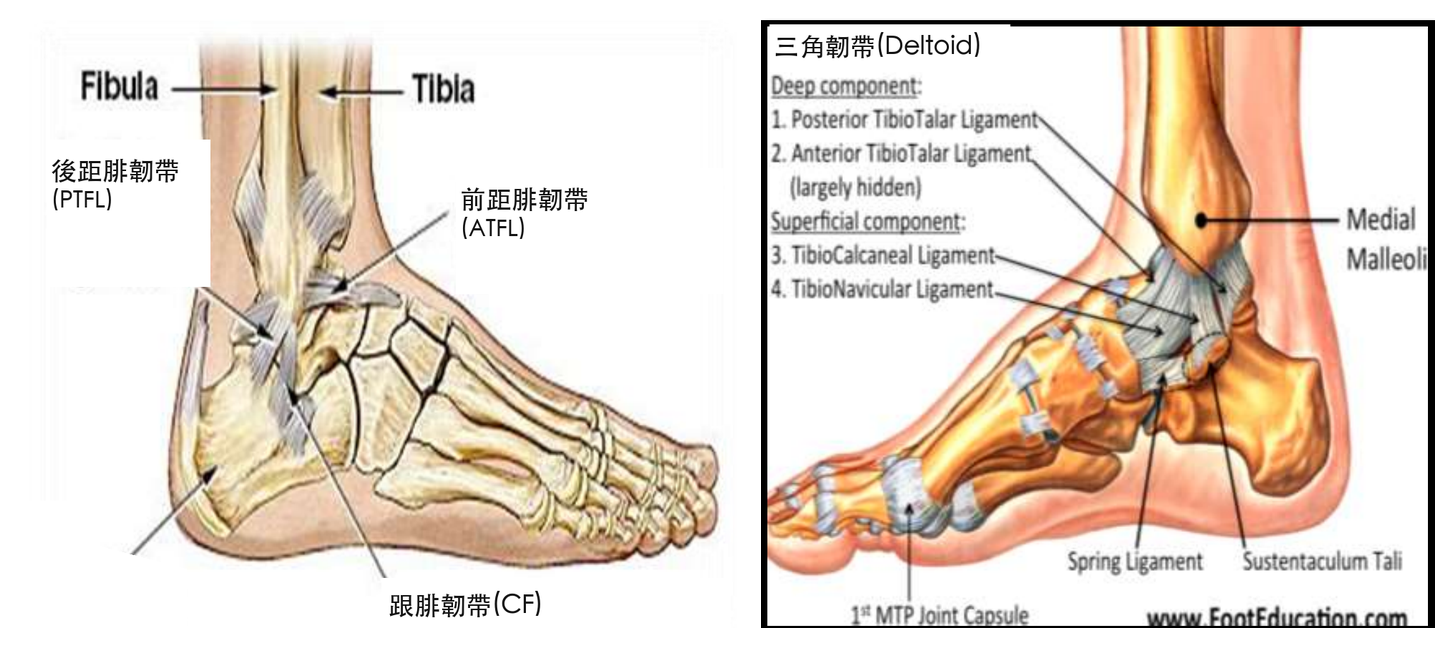
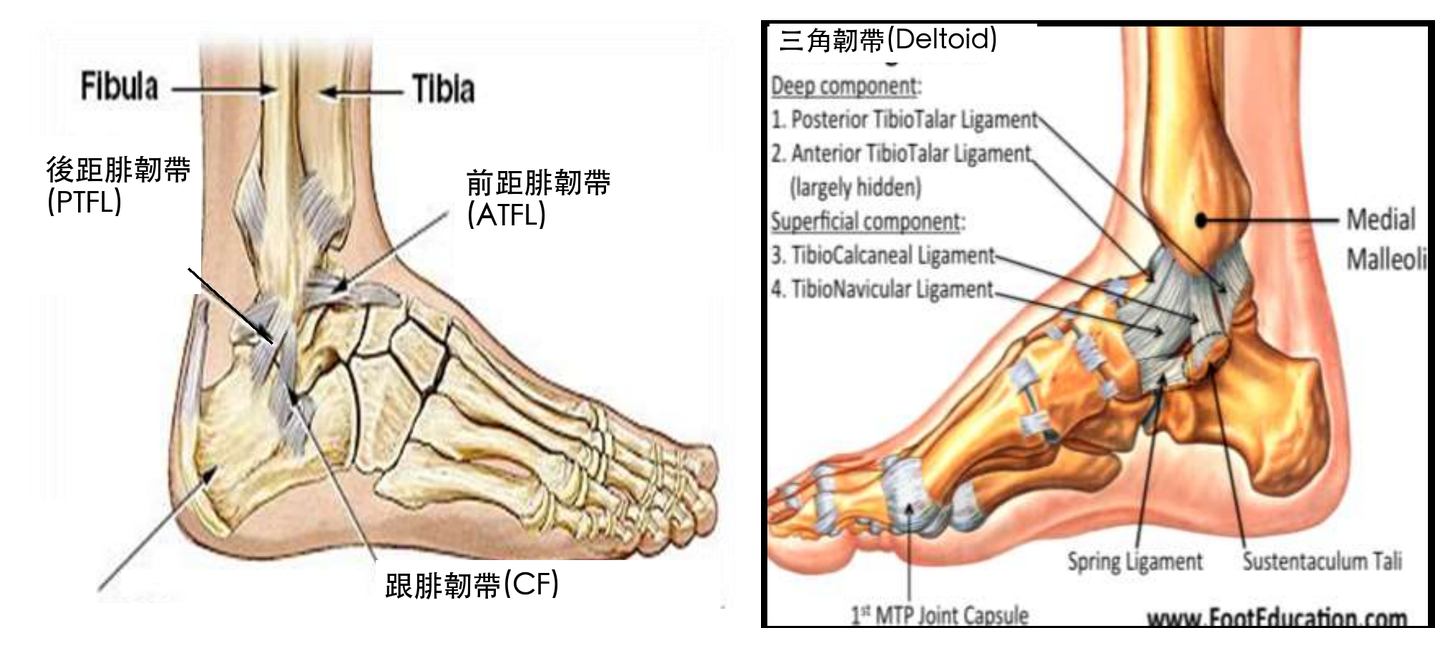
Refine ankle ligament labels

diff --git a/index.html b/index.html
@@ -240,13 +240,12 @@ const REGIONS = [
     image: 'photos/Ankle Ligament.png',
     extraPanel: {
       title: '三角韌帶（Deltoid ligament）細分',
-      subtitle: '內側三角韌帶由以下五束組成，共同穩定踝內側',
+      subtitle: '內側三角韌帶由以下四束組成，共同穩定踝內側',
       items: [
-        { no: '①', zh: '前脛距部韌帶', en: 'Anterior tibiotalar ligament', desc: '由脛骨內踝前緣 → 距骨內側前方，限制距骨外移/外翻' },
-        { no: '②', zh: '後脛距部韌帶', en: 'Posterior tibiotalar ligament', desc: '由脛骨內踝後緣 → 距骨內側後突，限制距骨後移/外翻' },
-        { no: '③', zh: '脛跟部韌帶', en: 'Tibiocalcaneal ligament', desc: '由脛骨內踝 → 跟骨載距突，限制足跟外翻' },
-        { no: '④', zh: '脛舟部韌帶', en: 'Tibionavicular ligament', desc: '由脛骨內踝前緣 → 舟狀骨內側，支撐內側縱弓' },
-        { no: '⑤', zh: '脛距部韌帶', en: 'Tibiotalar ligament', desc: '統稱脛骨—距骨間纖維束，涵蓋前/後脛距韌帶之深層部分' }
+        { no: '①', zh: '前脛距韌帶', en: 'Anterior tibiotalar ligament', desc: '由脛骨內踝前緣 → 距骨內側前方，限制距骨外移/外翻' },
+        { no: '②', zh: '後脛距韌帶', en: 'Posterior tibiotalar ligament', desc: '由脛骨內踝後緣 → 距骨內側後突，限制距骨後移/外翻' },
+        { no: '③', zh: '脛跟韌帶', en: 'Tibiocalcaneal ligament', desc: '由脛骨內踝 → 跟骨載距突，限制足跟外翻' },
+        { no: '④', zh: '脛舟韌帶', en: 'Tibionavicular ligament', desc: '由脛骨內踝前緣 → 舟狀骨內側，支撐內側縱弓' }
       ]
     }
   },